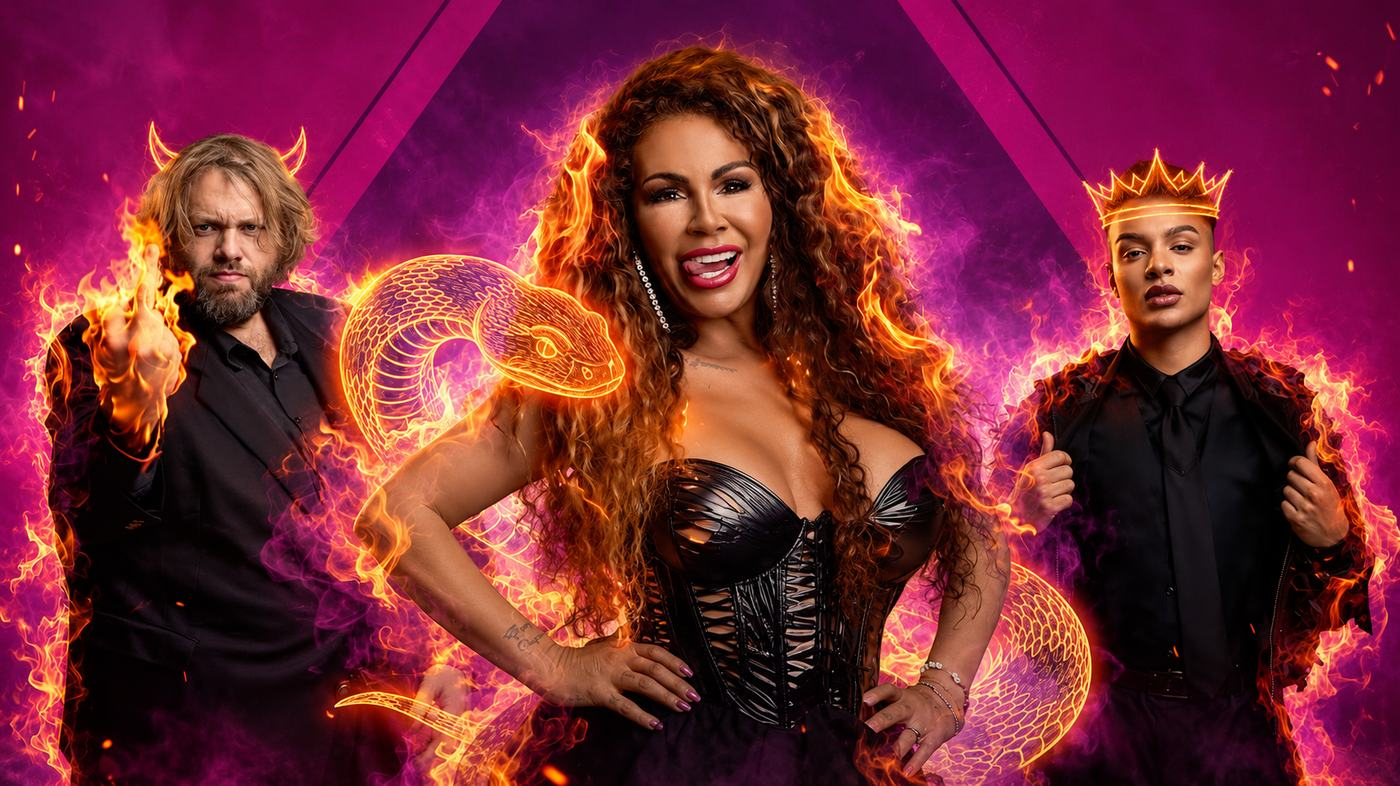
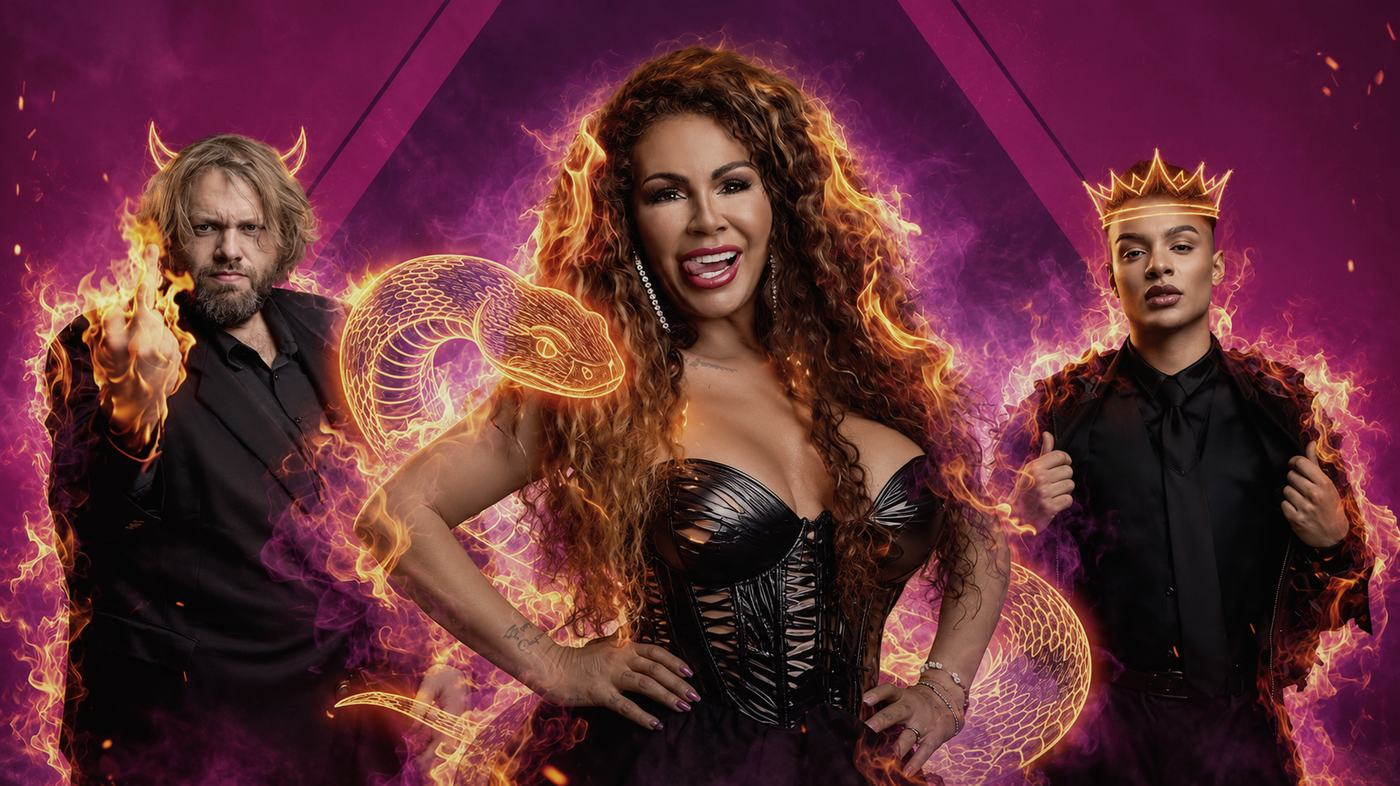
Kadrering Ink Master en Heels in the Hay, rustigere kleuren House of Villains
Claude-Session: https://claude.ai/code/session_011qTSZGyMUGrPKYSnjEewsZ

diff --git a/index.html b/index.html
@@ -364,10 +364,10 @@ const CATS={
 const P=[
  {c:"streaming",t:"Last One Standing",net:"",prod:"SimpelZodiak / Banijay",y:"2026",d:"In Last One Standing, sixteen male celebrities, each fighting for themselves, face an ultimate test of strength and endurance in the desert of Tabernas, Spain. Every episode is built around four challenges inspired by Hyrox, Strongman and CrossFit. No alliances, no votes: to stay in the race is to keep standing.",img:["img/streaming-last-one-standing-cover.jpg", "img/streaming-last-one-standing-arena.jpg", "img/streaming-last-one-standing-kettlebell.jpg"]},
  {c:"streaming",t:"Real Boys on Safari",sub:"Echte Jongens op Safari",net:"Videoland",prod:"Warner Bros.",y:"2025–2026",d:"Twelve of the Netherlands' best-known reality personalities swap their comfortable lives for the rugged wilderness of Kenya. Friendships are tested, egos clash and personal limits are pushed as the group competes in a series of challenges to claim the title of King of the Safari.",img:["img/streaming-real-boys-cover.jpg"]},
- {c:"streaming",t:"Heels in the Hay",sub:"Hakken Over De Sloot",net:"Amazon Prime Video",prod:"Fabiola B.V.",y:"2025",d:"Twelve city influencers swap their luxurious urban lives for the harsh reality of the Dutch countryside. No filters, no oat milk cappuccinos — just early mornings, dirty hands, and fierce competition across a series of farm challenges. Which city dweller will hold their ground?",img:["img/streaming-heels-in-the-hay-cover.jpg"]},
+ {c:"streaming",t:"Heels in the Hay",pos:"50% 0%",sub:"Hakken Over De Sloot",net:"Amazon Prime Video",prod:"Fabiola B.V.",y:"2025",d:"Twelve city influencers swap their luxurious urban lives for the harsh reality of the Dutch countryside. No filters, no oat milk cappuccinos — just early mornings, dirty hands, and fierce competition across a series of farm challenges. Which city dweller will hold their ground?",img:["img/streaming-heels-in-the-hay-cover.jpg"]},
  {c:"streaming",t:"Epic Exploring",net:"Insight TV",prod:"Newbe",y:"2019",d:"YouTube stars Josh and Cody travel the world in search of the most spectacular abandoned locations on the planet, from a forbidden Soviet city near Berlin and a Game of Thrones film set in the Sahara, to a nuclear disaster zone in Fukushima, Japan. An adventure series that uncovers the forgotten history behind the world's most extraordinary places.",img:["img/streaming-epic-exploring-cover.jpg", "img/streaming-epic-exploring-dscf6088.jpg", "img/streaming-epic-exploring-dscf5605.jpg", "img/streaming-epic-exploring-dscf6058.jpg", "img/streaming-epic-exploring-dscf6124.jpg", "img/streaming-epic-exploring-dscf6070.jpg", "img/streaming-epic-exploring-dscf5410.jpg"]},
  {c:"streaming",t:"House of Villains",net:"Videoland",prod:"Concept Street",y:"2025",d:"The Dutch version of the American reality game show. Eight notorious reality stars live together in a villa and compete for the title of Ultimate Supervillain and a prize of €25,000. Each week the winner of the Supervillain battle gains immunity and nominates three housemates for elimination. Hosted by Soundos El Ahmadi.",img:["img/streaming-house-of-villains-cover.jpg"]},
- {c:"streaming",t:"Ink Master",sub:"Masters of the Low Countries",net:"Spike NL",prod:"Endemol Shine",y:"2017",d:"Dutch and Belgian tattoo artists compete in a series of high-pressure challenges, testing their technical skills and creativity under the watchful eye of a panel of renowned judges. Only one can claim the title of Ink Master.",img:["img/streaming-ink-master-cover.jpg", "img/streaming-ink-master-dscf0285.jpg", "img/streaming-ink-master-dscf0219-2.jpg", "img/streaming-ink-master-dscf0005.jpg", "img/streaming-ink-master-dscf0274.jpg", "img/streaming-ink-master-dscf0018-3.jpg", "img/streaming-ink-master-dscf0031.jpg"]},
+ {c:"streaming",t:"Ink Master",pos:"50% 0%",sub:"Masters of the Low Countries",net:"Spike NL",prod:"Endemol Shine",y:"2017",d:"Dutch and Belgian tattoo artists compete in a series of high-pressure challenges, testing their technical skills and creativity under the watchful eye of a panel of renowned judges. Only one can claim the title of Ink Master.",img:["img/streaming-ink-master-cover.jpg", "img/streaming-ink-master-dscf0285.jpg", "img/streaming-ink-master-dscf0219-2.jpg", "img/streaming-ink-master-dscf0005.jpg", "img/streaming-ink-master-dscf0274.jpg", "img/streaming-ink-master-dscf0018-3.jpg", "img/streaming-ink-master-dscf0031.jpg"]},
  {c:"television",t:"Wolves",sub:"Wolven",net:"NPO 1 / BNNVARA",prod:"SimpelZodiak",y:"2026",d:"A psychological game show based on the party game Werewolves. Thirteen participants travel to a remote forest village: ten play as villagers competing for a cash prize, while three are secretly Wolves who try to eliminate the others one by one. Hosted by Soundos El Ahmadi and Pieter Derks, eight episodes on NPO 1, also streaming on NPO Start and Disney+.",img:["img/tv-wolven-cover.jpg", "img/tv-wolven-9.jpg", "img/tv-wolven-4.jpg", "img/tv-wolven-11.jpg", "img/tv-wolven-8.jpg", "img/tv-wolven-3.jpg", "img/tv-wolven-1.jpg", "img/tv-wolven-2.jpg", "img/tv-wolven-13.jpg", "img/tv-wolven-6.jpg", "img/tv-wolven-14.jpg", "img/tv-wolven-15.jpg", "img/tv-wolven-16.jpg", "img/tv-wolven-5.jpg", "img/tv-wolven-17.jpg", "img/tv-wolven-18.jpg", "img/tv-wolven-19.jpg", "img/tv-wolven-10.jpg", "img/tv-wolven-7.jpg", "img/tv-wolven-12.jpg"]},
  {c:"television",t:"Survive Your Family",net:"SBS6",prod:"Signal.Stream",y:"2026",d:"Four Dutch celebrity families are torn apart and thrown into the Colombian wilderness. While half of each family fights to survive in the jungle — without food, shoes or equipment — the other half battles in a base camp to send them supplies. Only one family can be reunited. An adventure reality series that puts family bonds to the ultimate test.",img:["img/television-survive-your-family-cover.jpg"]},
  {c:"television",t:"De Verraders",sub:"The Traitors Netherlands",net:"RTL 4",prod:"IDTV",y:"2022–2026",d:"The original format that sparked a global television phenomenon. In this psychological reality competition, eighteen Dutch celebrities are divided into Traitors and Faithfuls. Each night the Traitors secretly eliminate a player, while the Faithfuls attempt to expose them before the prize money runs out. Now adapted in over 30 countries worldwide, including hit versions for the BBC and Peacock in the US.",img:["img/tv-de-verraders-cover.jpg"]},
@@ -413,7 +413,7 @@ $("#facts4").innerHTML=`<div><b class="num">2007</b><span>First credit, 6 Pack f
 document.querySelectorAll("[data-intro]").forEach(el=>el.textContent=CATS[el.dataset.intro].intro);
 document.querySelectorAll("[data-count]").forEach(el=>{const k=el.dataset.count,n=k==="snapshots"?SN.length:P.filter(p=>p.c===k).length;el.textContent=n+(k==="snapshots"?" images":n===1?" project":" projects")});
 document.querySelectorAll("[data-list]").forEach(el=>{const k=el.dataset.list;el.innerHTML=P.filter(p=>p.c===k).map((p,i)=>{const n=P.indexOf(p);
-  return `<article class="proj" data-p="${n}"><div class="ph">${img(p.img[0],p.t)}</div>
+  return `<article class="proj" data-p="${n}"><div class="ph">${p.pos?img(p.img[0],p.t).replace("<img ",`<img style="object-position:${p.pos}" `):img(p.img[0],p.t)}</div>
   <div><h3><a href="#p-${p.id}">${esc(p.t)}</a></h3>${p.sub?`<p class="for lead">${esc(p.sub)}</p>`:""}</div>
   <div class="txt">${p.d||p.note?`<p class="lead">${esc(p.d||p.note)}</p>`:""}<dl class="specs">${p.net?`<dt>${p.c==="commercial"?"Client":"Network"}</dt><dd>${esc(p.net)}</dd>`:""}${p.prod?`<dt>${p.c==="commercial"?"Agency / label":"Production"}</dt><dd>${esc(p.prod)}</dd>`:""}${p.y?`<dt>Year</dt><dd>${esc(p.y)}</dd>`:""}</dl><span class="linkbtn">More about ${esc(p.t)}</span></div></article>`}).join("")});
 
